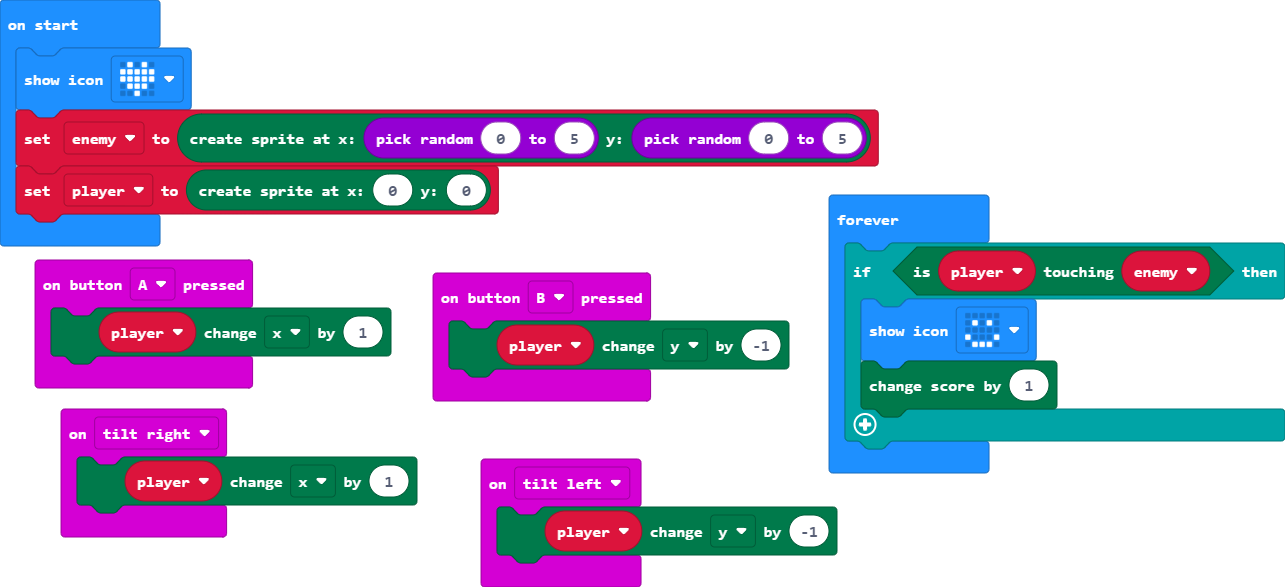
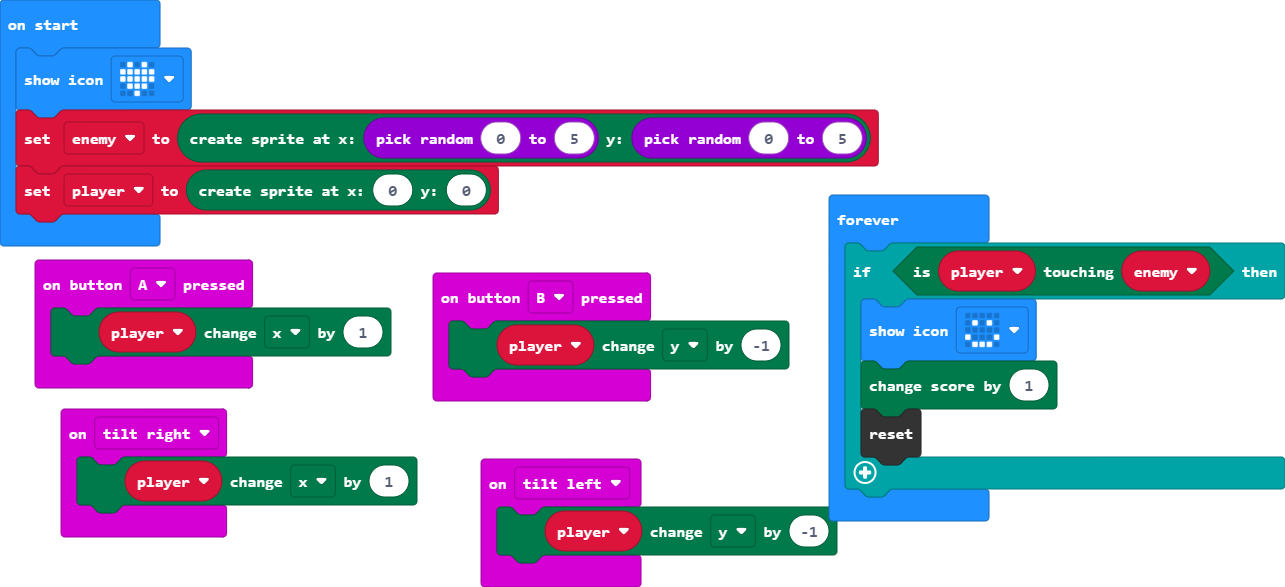
Update main.blocks, main.ts

Changed region(s): [[0.6226, 0.6746, 1.0, 0.8893]]

diff --git a/main.ts b/main.ts
@@ -18,5 +18,6 @@ basic.forever(function () {
     if (player.isTouching(enemy)) {
         basic.showIcon(IconNames.Happy)
         game.addScore(1)
+        control.reset()
     }
 })
